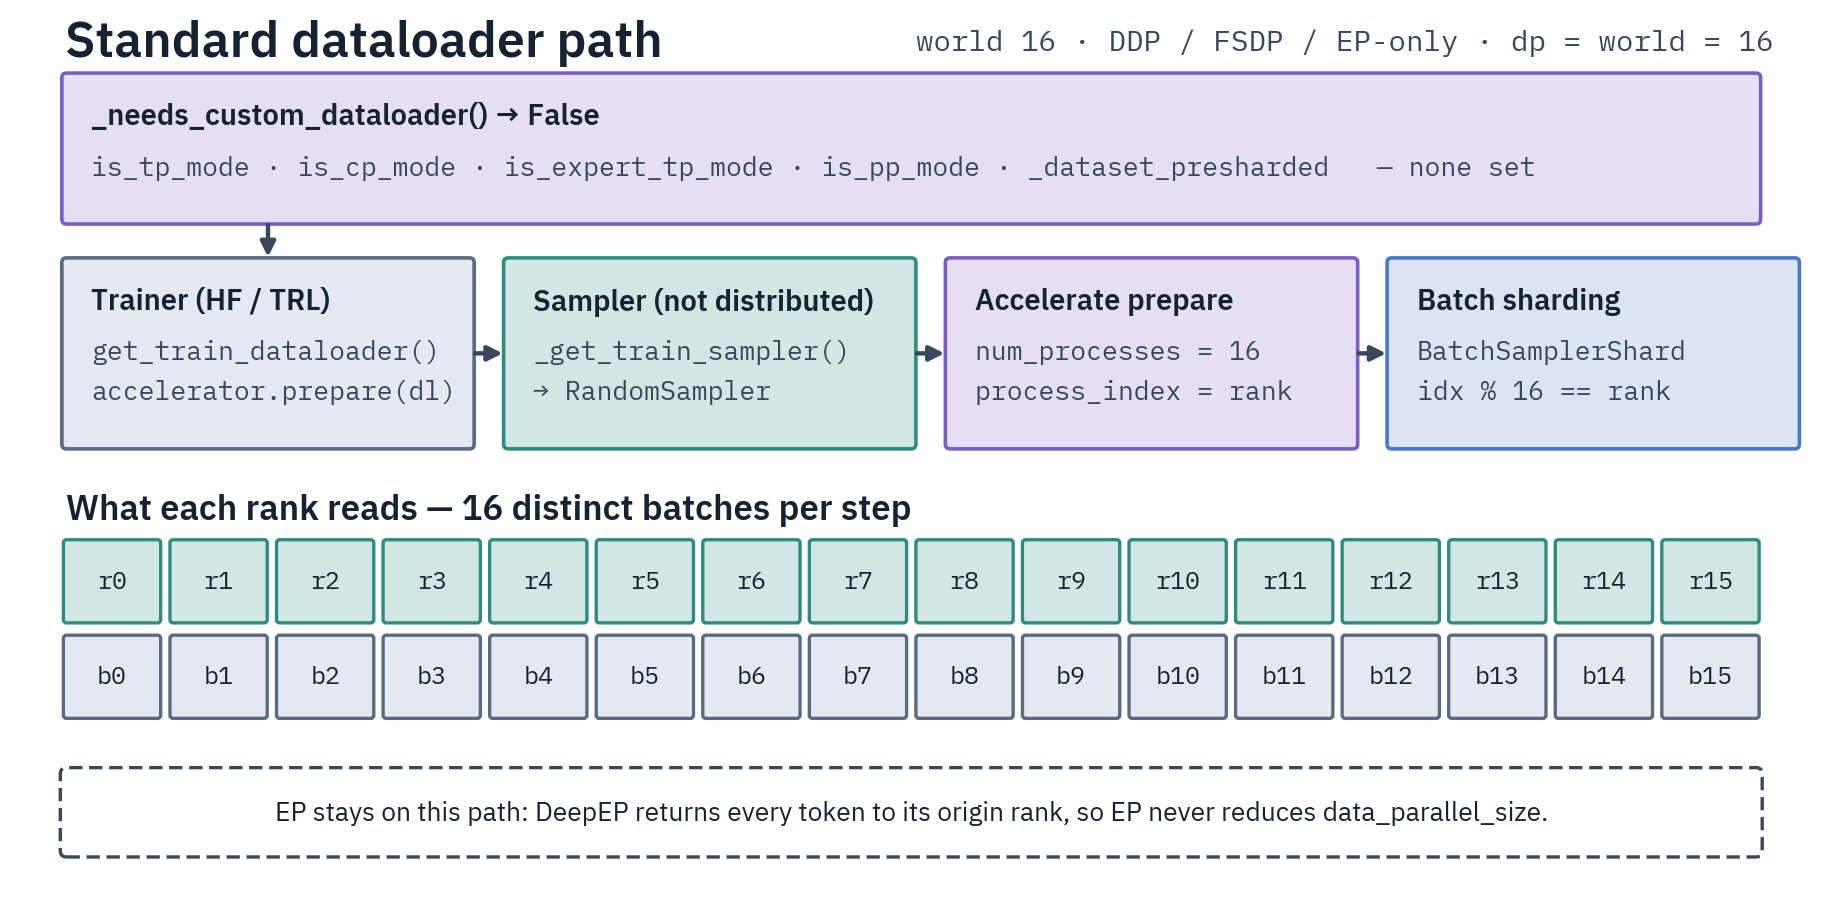
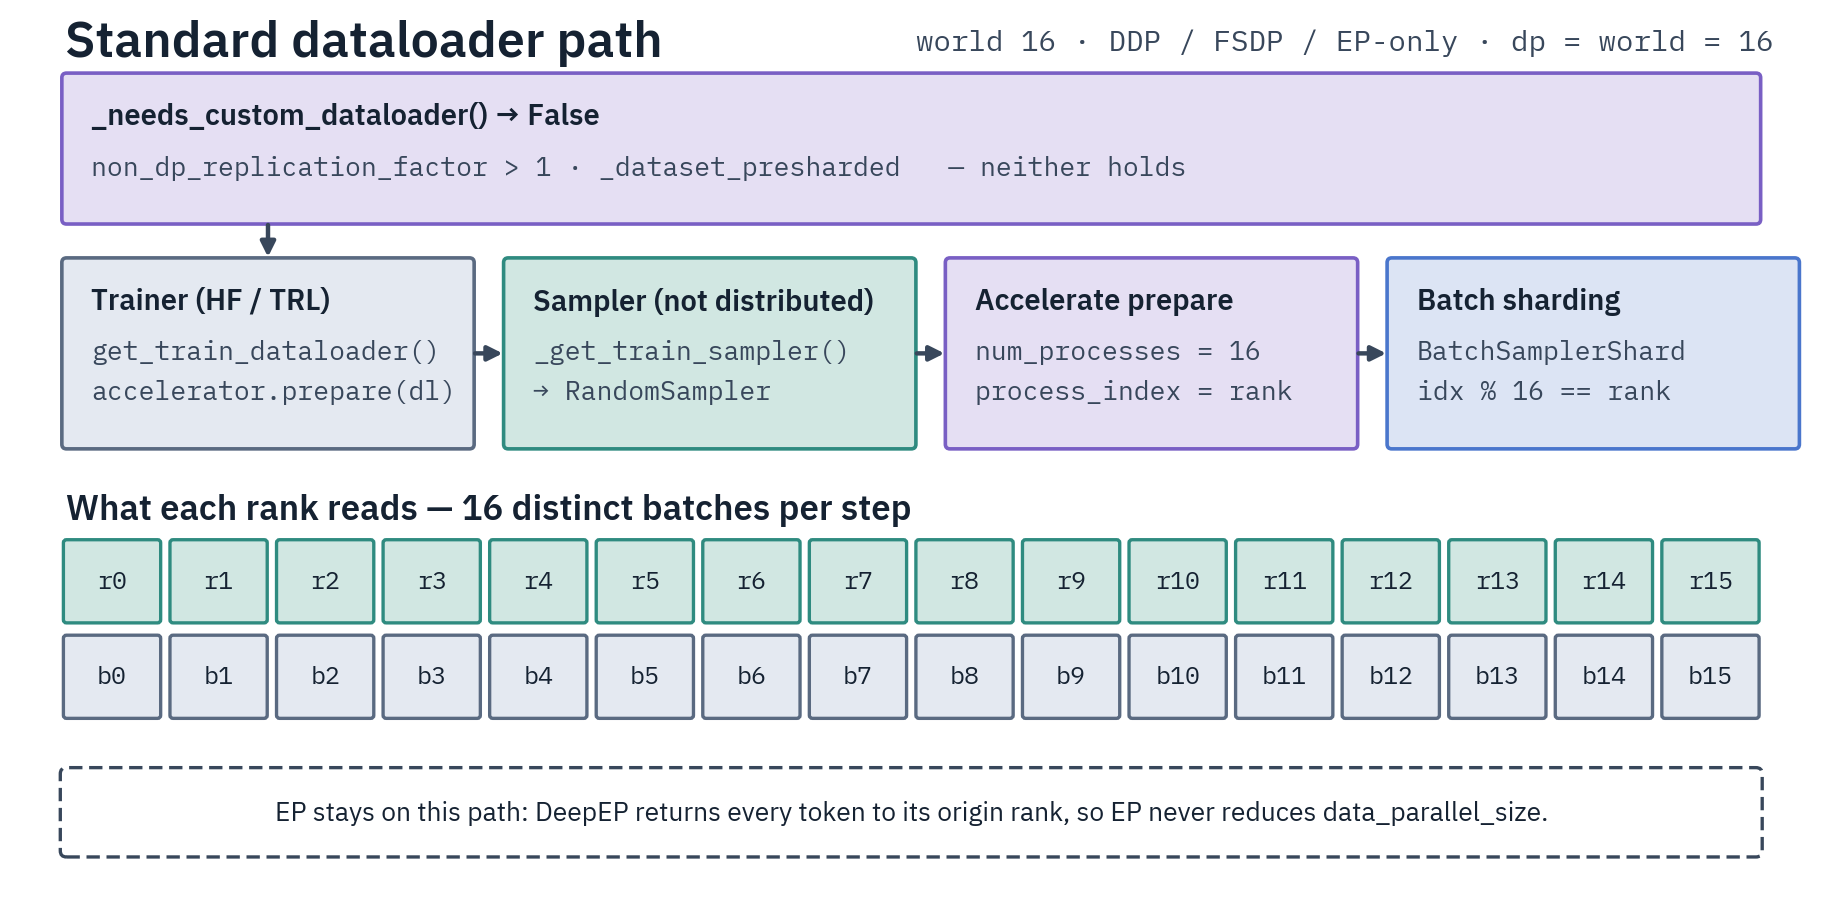
Dataloader figures: regenerated, with the public data-parallel formula

Changed region(s): [[0.2791, 0.1527, 0.7133, 0.2137], [0.062, 0.1527, 0.1861, 0.2137], [0.2171, 0.1527, 0.2481, 0.2137]]

diff --git a/scripts/diagrams/gen_dataloader_flows.py b/scripts/diagrams/gen_dataloader_flows.py
@@ -2,7 +2,7 @@
 
 One figure per path, drawn on the same grid so the pair reads as a before/after: the standard
 path shards batches by **global rank** (one distinct batch per rank), the custom path by **DP
-rank** (the ranks of a TP/CP/ETP group, and of a pipeline chain, read the same batch). The worked
+rank** (the ranks of a TP/CP/ETP group read the same batch). The worked
 shape is world 16 with `tp_size=2` → `data_parallel_size = 8`.
 """
 
@@ -103,7 +103,7 @@ panel(
 panel(
     "dataloader_custom",
     "Custom dataloader path",
-    "tp 2 · dp = (world / pp) / max(cp, tp, etp) = 16 / 2 = 8",
+    "tp 2 · dp = world / max(cp, tp, etp) = 16 / 2 = 8",
     "_needs_custom_dataloader() → True",
     "— either holds",
     [
@@ -114,6 +114,6 @@ panel(
     ],
     custom_batches,
     "What each rank reads — 8 distinct batches, one per TP group",
-    "dp_rank = stage_local_rank // max(tp, cp), so a pipeline chain shares it too;"
+    "dp_rank = rank // max(tp, cp) (ETP partners share their dispatch rank);"
     " a pre-sharded dataset passes num_processes = 1.",
 )
